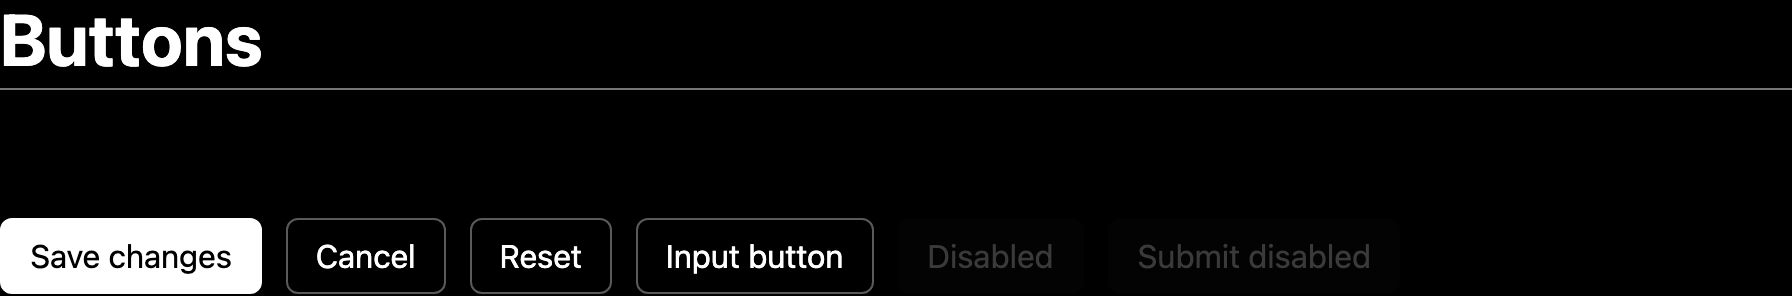
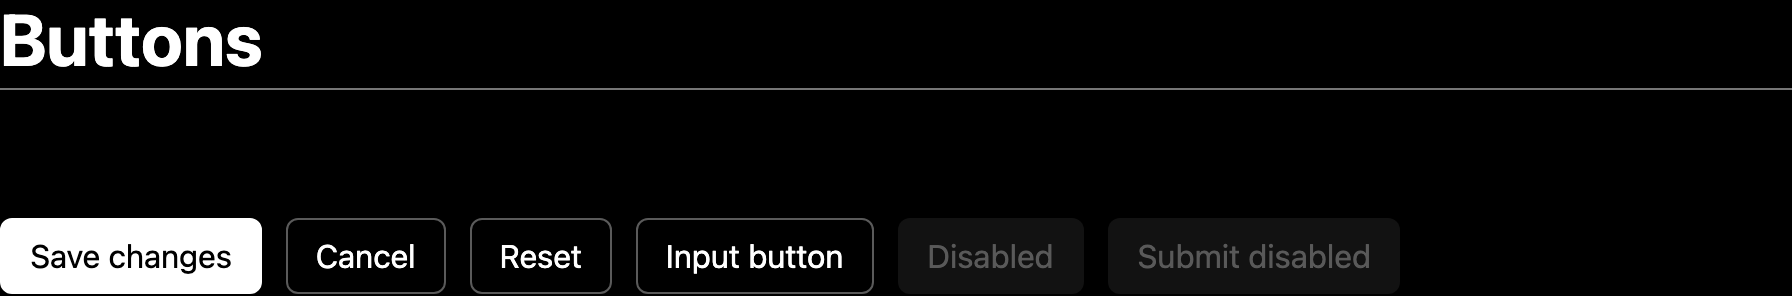
Fade the labels of disabled controls, and mix fades in sRGB
A label or fieldset around a disabled control now fades with it. The
control inside skips its own fade so it isn't faded twice.

Fades, tracks and hover tints mix in sRGB instead of OKLab. An OKLab mix
fades dark themes much further than light ones (disabled text was about
1.9:1 on black but 3.3:1 on white), and unchecked disabled checkboxes all
but vanished on dark backgrounds.

Changed region(s): [[0.625, 0.8209, 0.7812, 0.9122], [0.5, 0.8209, 0.5938, 0.9122]]

diff --git a/packages/huet/src/core/forms.css b/packages/huet/src/core/forms.css
@@ -115,7 +115,7 @@
       color: inherit;
     }
     [data-huet-forms] :where(select:not([multiple], [size])) :where(option:is(:hover, :focus-visible)) {
-      background-color: color-mix(in oklab, currentColor 12%, transparent);
+      background-color: color-mix(in srgb, currentColor 12%, transparent);
       outline: none;
     }
     [data-huet-forms] :where(select:not([multiple], [size])) :where(option:disabled) {
@@ -294,7 +294,7 @@
   /* Progress bars and meters: the track is a softer version of the line color,
      since the whole bar is filled */
   [data-huet-forms] :where(progress, meter) {
-    --_track: color-mix(in oklab, var(--_line) 25%, var(--huet-background));
+    --_track: color-mix(in srgb, var(--_line) 25%, var(--huet-background));
     appearance: none;
     box-sizing: border-box;
     height: 0.5em;
@@ -417,7 +417,7 @@
   }
   [data-huet-forms] :where(button, input[type="button"], input[type="submit"], input[type="reset"]):where(:hover:not(:disabled)),
   [data-huet-forms] :where(input[type="file"]:hover:not(:disabled))::file-selector-button {
-    background-color: color-mix(in oklab, currentColor 8%, transparent);
+    background-color: color-mix(in srgb, currentColor 8%, transparent);
   }
   /* The submit button is the primary action, filled with the text color.
      Its label is painted with text-fill-color so currentColor stays the text color. */
@@ -427,7 +427,7 @@
     -webkit-text-fill-color: var(--huet-background);
   }
   [data-huet-forms] :where(button[type="submit"], input[type="submit"]):where(:hover:not(:disabled)) {
-    background-color: color-mix(in oklab, currentColor 85%, var(--huet-background));
+    background-color: color-mix(in srgb, currentColor 85%, var(--huet-background));
   }
 
   /* Fieldsets */
@@ -446,10 +446,20 @@
   [data-huet-forms] :where(input, textarea, select):where(:user-invalid, [aria-invalid="true"]) {
     --_line: var(--huet-red);
   }
-  /* Disabled controls are drawn at about a third of their usual contrast.
-     In the color property, currentColor is the inherited text color. */
-  [data-huet-forms] :where(input, textarea, select, button, fieldset):disabled {
-    color: color-mix(in oklab, currentColor 35%, var(--huet-background));
+  /* Disabled controls, and the labels and fieldsets around them, are drawn at
+     about a third of their usual contrast. In the color property, currentColor
+     is the inherited text color, so a control inside a faded label or fieldset
+     is skipped to avoid fading it twice. Mixing in sRGB fades light and dark
+     themes by a similar contrast ratio. */
+  [data-huet-forms]
+    :where(
+      label:has(:disabled),
+      fieldset:disabled,
+      :is(input, textarea, select, button):disabled:not(label:has(:disabled) *, fieldset:disabled *)
+    ) {
+    color: color-mix(in srgb, currentColor 35%, var(--huet-background));
+  }
+  [data-huet-forms] :where(input, textarea, select, button):disabled {
     cursor: not-allowed;
   }
   /* Disabled controls lose their outline and get a flat fill instead */
@@ -463,7 +473,7 @@
   [data-huet-forms] :where(input[type="checkbox"], input[type="radio"]):disabled:not(:checked, :indeterminate),
   [data-huet-forms] :where(input[type="file"]:disabled)::file-selector-button {
     border-color: transparent;
-    background-color: color-mix(in oklab, var(--_line) 20%, var(--huet-background));
+    background-color: color-mix(in srgb, var(--_line) 20%, var(--huet-background));
     cursor: not-allowed;
   }
   /* Icons inside disabled fields fade with their text */

diff --git a/tests/forms-demo.spec.ts b/tests/forms-demo.spec.ts
@@ -50,6 +50,20 @@ test("controls take their colors from the theme and the surface they're on", asy
   await expect(inverted.getByLabel("Starred")).toHaveCSS("background-color", "rgb(0, 0, 0)");
 });
 
+test("disabled controls fade along with their labels, once", async ({ page }) => {
+  const toggle = await open(page);
+  await toggle.click();
+  const color = (text: string) => page.locator("label", { hasText: text }).evaluate((el) => getComputedStyle(el).color);
+  const drone = page.getByLabel("Drone (disabled)");
+  // Black text mixed 35% over white
+  const faded = "color(srgb 0.65 0.65 0.65)";
+  expect(await color("Express")).toBe("rgb(0, 0, 0)");
+  expect(await color("Drone (disabled)")).toBe(faded);
+  // The radio inherits the faded color rather than fading it again
+  await expect(drone).toHaveCSS("color", faded);
+  await expect(page.locator("form button[type=button][disabled]")).toHaveCSS("color", faded);
+});
+
 function hexToRgb(hex: string) {
   const [r, g, b] = [1, 3, 5].map((i) => parseInt(hex.trim().slice(i, i + 2), 16));
   return `rgb(${r}, ${g}, ${b})`;

diff --git a/packages/huet/README.md b/packages/huet/README.md
@@ -157,7 +157,7 @@ It styles every part of each control, not just the outer box:
 | Progress bars, meters | Track and value, an animated indeterminate state, and meters' good, fair and poor values in the theme's green, yellow and red |
 | Color and file inputs, buttons, fieldsets | Swatch and frame, the file button, a filled submit button, the fieldset border |
 
-Lines (borders and unfilled tracks) use the surface's border color, or the control's `huet-border-*` class. Fills (checks, thumbs, filled tracks, switches, the submit button) use the text color, so `huet-text-blue-100` on a control or its label makes it blue. Progress and meter tracks use a softer version of the line color. Disabled controls drop to about a third of their usual contrast, on a flat fill instead of a border; invalid fields (`:user-invalid` or `aria-invalid="true"`) get the theme's red border. The rules are in the `base` cascade layer with zero-specificity selectors inside the scope, so Huet classes and Tailwind utilities on a control still win.
+Lines (borders and unfilled tracks) use the surface's border color, or the control's `huet-border-*` class. Fills (checks, thumbs, filled tracks, switches, the submit button) use the text color, so `huet-text-blue-100` on a control or its label makes it blue. Progress and meter tracks use a softer version of the line color. Disabled controls and their labels drop to about a third of their usual contrast, and fields and buttons get a flat fill instead of a border; invalid fields (`:user-invalid` or `aria-invalid="true"`) get the theme's red border. The rules are in the `base` cascade layer with zero-specificity selectors inside the scope, so Huet classes and Tailwind utilities on a control still win.
 
 Popups the browser draws itself, such as the date picker, the color picker and datalist suggestions, follow the page's `color-scheme`, not the theme. Set `color-scheme: dark` on dark themes so they match.
 
